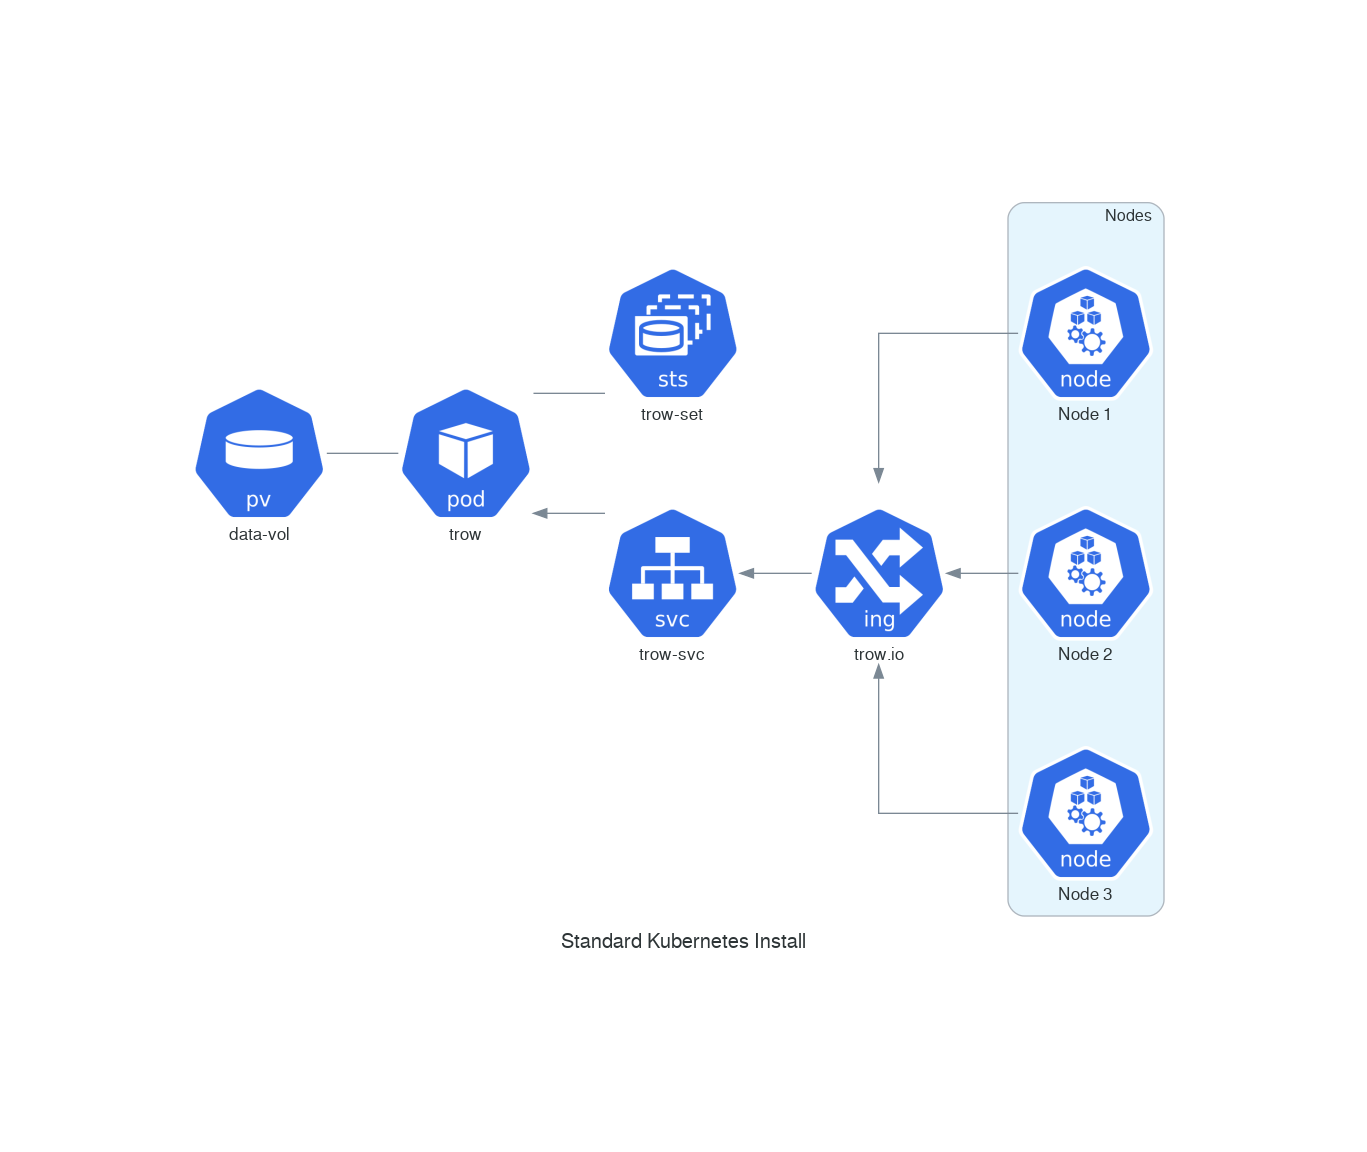
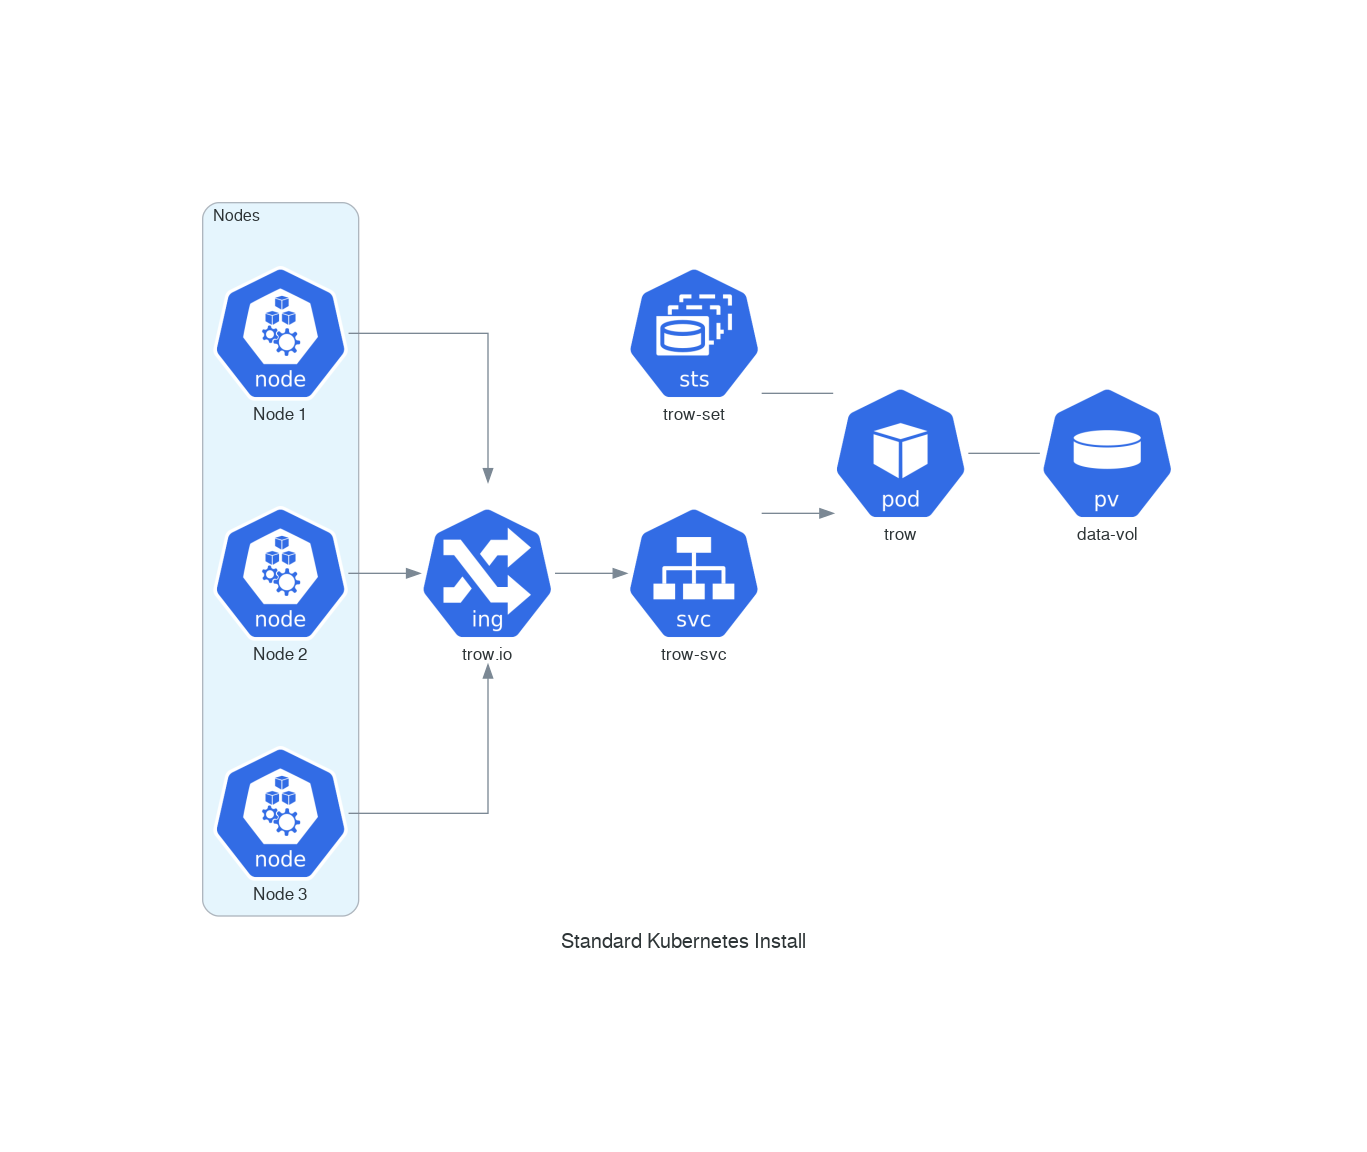
First draft at some architecture docs.

diff --git a/docs/diagrams/distribution_diagram.py b/docs/diagrams/distribution_diagram.py
@@ -1,0 +1,43 @@
+from diagrams import Diagram, Cluster, Edge
+from diagrams.k8s.network import Ingress, Service 
+from diagrams.k8s.compute import StatefulSet, Pod
+from diagrams.k8s.storage import PV
+from diagrams.k8s.infra import Node
+
+with Diagram("Advanced Distribution", show=False, direction="LR",
+        graph_attr={"splines":"spline"}):
+
+
+    with Cluster ("Node 1"):
+        be1 = Pod("trow-backend-1");
+        fe = Pod("trow-frontend");
+        fe >> be1
+
+    with Cluster ("Node 2"):
+        be2 = Pod("trow-backend-2");
+
+    with Cluster ("Node 3"):
+        be3 = Pod("trow-backend-3");
+
+    with Cluster ("Node 4"):
+        be4 = Pod("trow-backend-4");
+
+    with Cluster ("Node 5"):
+        be5 = Pod("trow-backend-5");
+
+    be1 - be2
+    be1 - be3
+    be1 - be4
+    be1 - be5
+    be2 - be3
+    be2 - be4
+    be2 - be5
+    be3 - be4
+    be3 - be5
+    be4 - be5
+
+    ing = Ingress("trow.io")
+    svc =  Service("trow-svc") 
+    ing >> svc
+    svc >> fe
+

diff --git a/docs/diagrams/kubernetes_diagram.py b/docs/diagrams/kubernetes_diagram.py
@@ -4,7 +4,7 @@ from diagrams.k8s.compute import StatefulSet, Pod
 from diagrams.k8s.storage import PV
 from diagrams.k8s.infra import Node
 
-with Diagram("Standard Kubernetes Install", show=False, direction="RL"):
+with Diagram("Standard Kubernetes Install", show=False, direction="LR"):
     ing = Ingress("trow.io")
     svc =  Service("trow-svc") 
     ing >> svc

diff --git a/docs/ARCHITECTURE.md b/docs/ARCHITECTURE.md
@@ -4,7 +4,7 @@ The following diagram depicts Trow running standalone (outside of a cluster).
 
 ![](diagrams/trow_arch.png)
 
-It's worth noting the following:
+Note:
 
  1. All interaction with clients (normally the Docker Daemon, but also podman, CI/CD tools etc) is
     currently via a RESTful (ish) API interface. The interface is defined by the OCI Distribution
@@ -56,14 +56,16 @@ but is a hack that shouldn't be used in production.
 
 The plan for the future is to have something more like this:
 
+![](diagrams/advanced_distribution.png)
 
 Every (or most) nodes run an instance of the Trow Back End. These instances communicate and share
 files with each other in a P2P style (similar to BitTorrent). This should provide an enormous speed
 in up in image deployment time for the cluster. It should also be designed to place minimal extra
 load on nodes.
 
-There is a single (or perhaps several) Front End instances for talking to clients. 
+There is a single (or perhaps several to allow for HA) Front End instances for talking to clients. 
 
 ## Upload/Download Tracking and File Layout
 
+To come.
 
